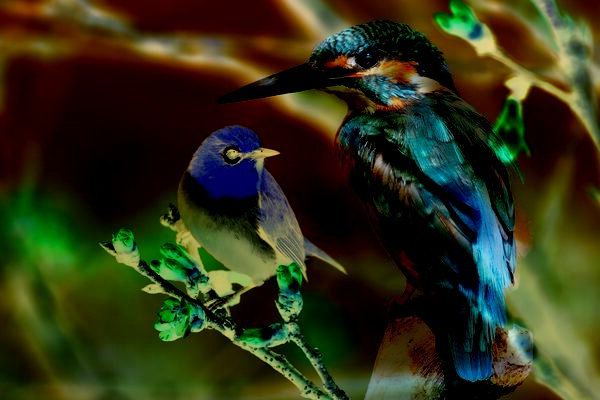
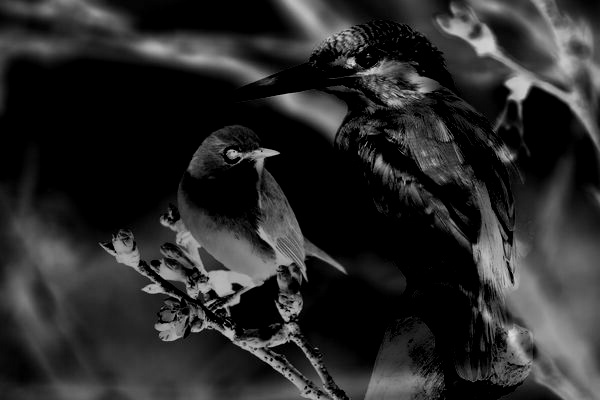
penyempurnaan

diff --git a/pengurangan-citra-dengan-konstanta/opencv/pengurangan-citra-dengan-konstanta.py b/pengurangan-citra-dengan-konstanta/opencv/pengurangan-citra-dengan-konstanta.py
@@ -1,5 +1,4 @@
 import cv2
-import numpy as np
 
 # Baca gambar
 image = cv2.imread('1.jpg')
@@ -8,10 +7,10 @@ image = cv2.imread('1.jpg')
 cv2.imshow('Gambar Asli', image)
 
 # Konstanta untuk pengurangan
-constant_value = 50
+constant_value = 150
 
 # Tambahkan konstanta ke semua piksel dalam gambar
-result = cv2.add(image, (constant_value, constant_value, constant_value, 0))
+result = cv2.subtract(image, (constant_value, constant_value, constant_value, 0))
 
 cv2.imwrite('hasil_pengurangan_konstanta.jpg', result)
 print("Pengurangan gambar dengan konstanta selesai.")

diff --git a/image-blending/opencv/image-blending.py b/image-blending/opencv/image-blending.py
@@ -1,5 +1,4 @@
 import cv2
-import numpy as np
 
 # Baca dua citra yang akan diurangkan
 img1 = cv2.imread('1.jpg')
@@ -16,8 +15,8 @@ if img1.shape != img2.shape:
         img2 = cv2.resize(img2, (width, height))
 
 # Berikan bobot (weight) untuk kedua citra
-alpha = 0.5  # Bobot untuk citra pertama (0-1)
-beta = 0.5   # Bobot untuk citra kedua (0-1)
+alpha = 0.3  # Bobot untuk citra pertama (0-1)
+beta = 0.7   # Bobot untuk citra kedua (0-1)
 
 # Gabungkan kedua citra menggunakan formula blending
 result = cv2.addWeighted(img1, alpha, img2, beta, 0)

diff --git a/grayscale/rgb-to-grayscale.py b/grayscale/rgb-to-grayscale.py
@@ -1,7 +1,7 @@
 import cv2
 
 # Baca gambar
-img = cv2.imread('gambar.jpg')
+img = cv2.imread('2.jpg')
 
 cv2.imshow('Citra Awal', img)
 
@@ -9,7 +9,7 @@ cv2.imshow('Citra Awal', img)
 result = cv2.cvtColor(img, cv2.COLOR_BGR2GRAY)
 
 # Simpan hasil operasi perkalian ke dalam sebuah file
-cv2.imwrite('hasil_grayscale.jpg', result)
+cv2.imwrite('baru_2.jpg', result)
 
 # Tampilkan citra grayscale
 cv2.imshow('Citra Grayscale', result)

diff --git a/perkalian-2-citra/vanilla/perkalian-2-citra.py b/perkalian-2-citra/vanilla/perkalian-2-citra.py
@@ -29,9 +29,9 @@ for x in range(width):
         pixel2 = img2.getpixel((x, y))
 
         # perkalian piksel
-        r = min(pixel1[0] + pixel2[0], 255)
-        g = min(pixel1[1] + pixel2[1], 255)
-        b = min(pixel1[2] + pixel2[2], 255)
+        r = min(pixel1[0] * pixel2[0], 255)
+        g = min(pixel1[1] * pixel2[1], 255)
+        b = min(pixel1[2] * pixel2[2], 255)
 
         hasil_gambar.putpixel((x, y), (r, g, b))
 

diff --git a/image-blending/vanilla/image-blending.py b/image-blending/vanilla/image-blending.py
@@ -23,8 +23,8 @@ width, height = img1.size
 hasil_gambar = Image.new("RGB", (width, height))
 
 # Tentukan bobot (alpha) untuk citra pertama dan citra kedua
-alpha = 0.7  # Bobot untuk citra pertama (0-1)
-beta = 0.3   # Bobot untuk citra kedua (0-1)
+alpha = 0.3  # Bobot untuk citra pertama (0-1)
+beta = 0.7   # Bobot untuk citra kedua (0-1)
 
 # Lakukan blending piksel per piksel
 blended_image = Image.new("RGB", img1.size)

diff --git a/penjumlahan-citra-dengan-konstanta/opencv/penjumlahan-citra-dengan-konstanta.py b/penjumlahan-citra-dengan-konstanta/opencv/penjumlahan-citra-dengan-konstanta.py
@@ -1,5 +1,4 @@
 import cv2
-import numpy as np
 
 # Baca gambar
 image = cv2.imread('1.jpg')
@@ -8,7 +7,7 @@ image = cv2.imread('1.jpg')
 cv2.imshow('Gambar Asli', image)
 
 # Konstanta untuk penjumlahan
-constant_value = 50
+constant_value = 200
 
 # Tambahkan konstanta ke semua piksel dalam gambar
 result = cv2.add(image, (constant_value, constant_value, constant_value, 0))

diff --git a/pengurangan-2-citra/opencv/pengurangan-2-citra.py b/pengurangan-2-citra/opencv/pengurangan-2-citra.py
@@ -1,8 +1,7 @@
 import cv2
-import numpy as np
 
-img1 = cv2.imread('1.jpg')
-img2 = cv2.imread('2.jpg')
+img1 = cv2.imread('gray_1.jpg')
+img2 = cv2.imread('gray_2.jpg')
 
 cv2.imshow('Gambar 1', img1)
 cv2.imshow('Gambar 2', img2)

diff --git a/pengurangan-citra-dengan-konstanta/vanilla/pengurangan-citra-dengan-konstanta.py b/pengurangan-citra-dengan-konstanta/vanilla/pengurangan-citra-dengan-konstanta.py
@@ -5,7 +5,7 @@ gambar = Image.open('1.jpg')
 gambar.show()
 
 # Konstanta untuk pengurangan
-constant_value = 50
+constant_value = 150
 
 # Mendapatkan ukuran gambar
 lebar, tinggi = gambar.size
